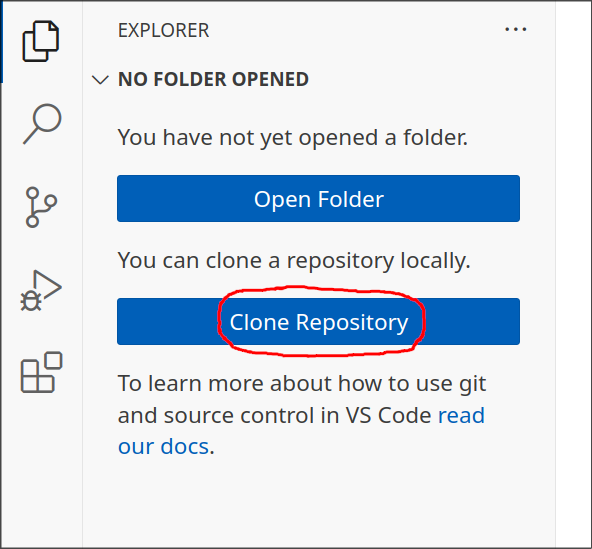
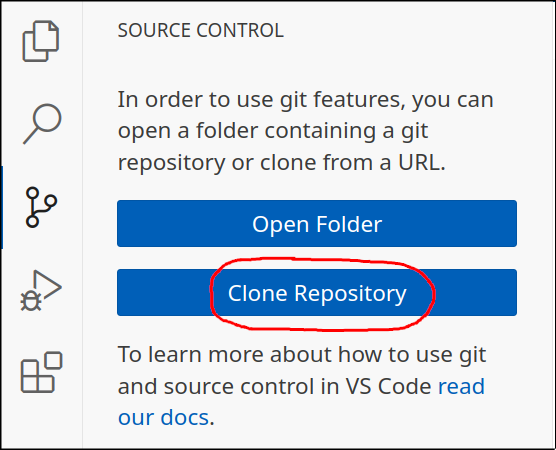
Update instructions

diff --git a/README.md b/README.md
@@ -43,8 +43,10 @@ editor such as VSCode can also be useful. Proposed workflow:
    This gives syntax highlighting, code execution with `Shift` + `Enter` etc.
 1. Clone the repository in VSCode:
     1. Create a new window: `Ctrl`/`Cmd` + `Shift` + `N`
-    1. Open the explorer `Ctrl`/`Cmd` + `Shift` + `E`
-    1. Click the button `Clone Repository`
+    1. Open the _Source control_ side panel with `Ctrl`/`Cmd` + `Shift` + `G`
+    1. Click the button `Clone Repository`. If you do not see this button,
+       there should be an instruction there instead to first install
+       [Git](https://git-scm.com/downloads).
        ![](assets/vscode_clone.png)
     1. Paste the following URL:
 
@@ -54,9 +56,18 @@ editor such as VSCode can also be useful. Proposed workflow:
 
     1. Select a location for where you want the folder
     1. Open the cloned repository
+1. *Activate the project:* A notification should pop up asking you about the
+   environment. If not, click on the `v1.9` environment symbol in the bottom
+   bar of VSCode, or, alternatively, open the command palette (`Ctrl`/`Cmd` +
+   `Shift` + `P`), start typing `julia`, and select
+   `Julia: Change current environment`.
+   Set the environment to `NeuralClosure`. 
 1. In the file explorer (`Ctrl`/`Cmd` + `Shift` + `E`), you should see the
-   files. Open `generated/burgers.ipynb`. Execute the notebook one cell at the
-   time with `Shift` + `Enter`. Output and plots should appear below each cell.
+   files. Open `generated/burgers.ipynb`.
+   Execute the notebook one cell at the time with `Shift` + `Enter`.
+   Output and plots should appear below each cell.
+   Start with uncommenting and executing the cell with
+   `Pkg.instantiate()`, which will install the local dependencies.
 
 Note: If you do not like the notebook format, you can alternatively open the
 source script `burgers.jl` or the markdown file `generated/burgers.md`. Both
